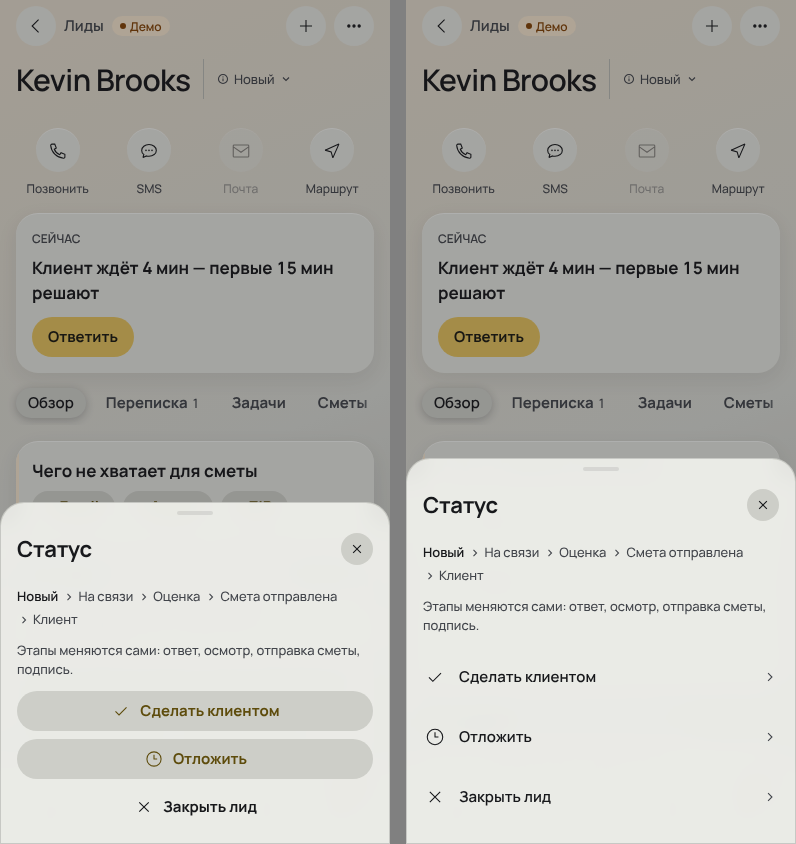
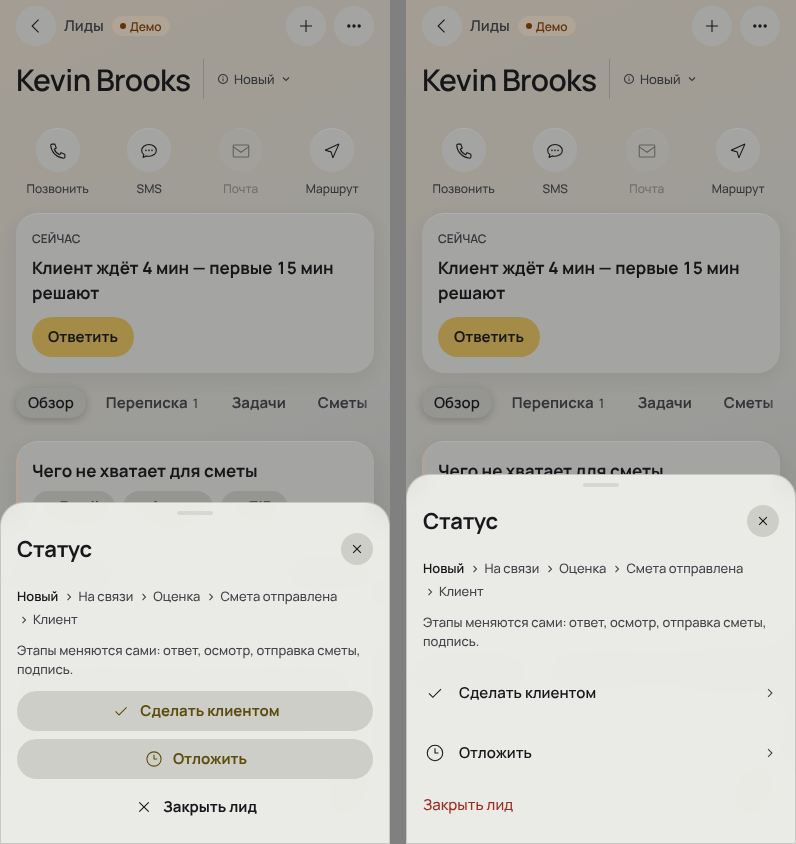
#3065: design + crm review — PO «Отметить получение» main when sent and unchanged, «Закрыть лид» red and last, «⊕» rows for what's missing, «Связано» under the sum, reminder rows show when, no «›» on direct actions
- purchase order: sent, no changes → one main «Отметить получение», «Отправить снова» in «⋯»; changes → «Отправить (версия N)» + «Сохранить», «Получено» in «⋯»
- lead «Статус»: «Закрыть лид» — ActionRow tone bad, last
- «Чего не хватает»: ActionRow «⊕ Email / Адрес / ZIP» (iOS Contacts add rows)
- «Что дальше?»: each reminder row shows its day and 9:00
- «Сообщить клиенту»: SMS / Письмо without «›» (they leave the app, as the iOS share sheet)
- receipt: «Связано» after the sum card
- checklist: no list icon on check items (camera only on photo items), subtitle on one line; hint «Нажмите пункт, чтобы изменить» (RU/EN/ES)
- photo sheet: «Повторить» first, then the row «Следующее ›», then «Удалить»

Claude-Session: https://claude.ai/code/session_015CqH67r2udAd6JM1sFa6VX

diff --git a/apps/mobile/src/features/lead/LeadSheets.tsx b/apps/mobile/src/features/lead/LeadSheets.tsx
@@ -12,6 +12,7 @@ import { useStore } from "@/data/store";
 import { LEAD_FUNNEL, LEAD_INTERESTS, type CallOutcome, type Lead, type LeadInterest } from "@/data/types";
 import { useI18n, type DictKey } from "@/i18n";
 import { Labeled } from "@/features/fields";
+import { ActionRow } from "@/ui/multiValueField";
 import { isClosedLead, isOpenLead, isSnoozed, leadStatusView, missingForEstimate, type MissingItem } from "@/features/leads";
 import { leadSettingsOf } from "@/features/leadSettings";
 import { bookStart, dayAtHour, snoozeUntil, SNOOZE_MONTHS, BOOK_DAYS } from "@/features/lead/bookRules";
@@ -65,7 +66,7 @@ export function NextStepSheet({
   l, visible, onClose, onBook, onEstimate, onCloseLead, office,
 }: { l: Lead; visible: boolean; onClose: () => void; onBook: () => void; onEstimate: () => void; onCloseLead: () => void; office: boolean }) {
   const store = useStore();
-  const { t } = useI18n();
+  const { t, day, time } = useI18n();
   const toast = useToast();
   const q = useQ();
   const remindIn = (days: number) => {
@@ -87,7 +88,7 @@ export function NextStepSheet({
         <View testID="lead-next-remind">
           {[1, 3, 7].map((n) => (
             <View key={n} testID={`lead-next-remind-${n}`}>
-              <ListRow title={t("lead.next.inDays", { n })} left={<Icon name="clock" />} chevron={false} onPress={() => remindIn(n)} />
+              <ListRow title={t("lead.next.inDays", { n })} left={<Icon name="clock" />} right={<T v="caption" tone="mut">{`${day(dayAtHour(n, 9))} · ${time(dayAtHour(n, 9))}`}</T>} chevron={false} onPress={() => remindIn(n)} />
             </View>
           ))}
         </View>
@@ -175,7 +176,8 @@ export function StatusSheet({
           ) : (
             <ListRow title={t("lead.snooze.title")} left={<Icon name="clock" />} onPress={() => { onClose(); onSnooze(); }} />
           )}
-          <ListRow title={t("lead.closeTitle")} left={<Icon name="close" />} onPress={() => { onClose(); onCloseLead(); }} />
+          {/* the dangerous one — last, a red word (DS §7.5), as iOS Contacts' red row */}
+          <ActionRow testID="lead-status-close" label={t("lead.closeTitle")} tone="bad" onPress={() => { onClose(); onCloseLead(); }} />
         </View>
       ) : isClosedLead(l) ? (
         <Button label={t("lead.reopen")} icon="refresh" full onPress={() => { toast.show(q(t("lead.reopened", { name: l.name })), store.reopenLead(l.id)); onClose(); }} />
@@ -237,11 +239,11 @@ export function MissingBlock({ l, onAdd }: { l: Lead; onAdd: (what: "contact" | 
   return (
     <Card status="warn">
       <T v="heading">{t("lead.missing.title")}</T>
-      {/* DS §7.5: each missing item is a row «＋ …» that opens its sheet, not a row of buttons */}
+      {/* DS §7.5, §9 А14а: each missing item is an action row «⊕ …» (iOS Contacts «add phone») that opens its sheet, not a row of buttons */}
       <View testID="lead-missing">
         {missing.map((m) => (
           <View key={m} testID={`lead-missing-${m}`}>
-            <ListRow title={t(MISSING_KEYS[m])} left={<Icon name="plus" />} onPress={() => onAdd(sheetOf(m))} />
+            <ActionRow label={t(MISSING_KEYS[m])} icon="plusCircle" onPress={() => onAdd(sheetOf(m))} />
           </View>
         ))}
       </View>

diff --git a/apps/mobile/src/app/purchase-order/[id].tsx b/apps/mobile/src/app/purchase-order/[id].tsx
@@ -125,11 +125,14 @@ export default function PurchaseOrderScreen() {
   };
   const canRecv = canReceive(role) && ["sent", "partially_received", "received"].includes(found.status);
   const startReceive = () => setReceiving(Object.fromEntries(found.lines.map((l) => [l.id, l.receivedQty === "0" ? "" : l.receivedQty])));
-  // DS §7.5 (#3065): at most one main + one second button under the order; the rest — «⋯» in the header. Editing: «Отправить» +
-  // «Сохранить»; «Получено» (a sent order) and «Отменить заказ» — in «⋯». Not editing: «Получено» is the one main.
+  // DS §7.5 (#3065): at most one main + one second button under the order; the rest — «⋯» in the header.
   const canCancel = office && ["draft", "sent", "partially_received"].includes(found.status);
-  const items: MenuItem<"receive" | "cancel">[] = [
-    ...(edit && canRecv ? [{ key: "receive" as const, label: t("po.receive"), icon: "check" as const, testID: "po-receive" }] : []),
+  // design + crm review (#3065): a sent order without changes — the next step «Отметить получение» is the one main; «Отправить снова»
+  // (the same version again) goes to «⋯». With changes — «Отправить (версия N)» + «Сохранить», «Получено» in «⋯».
+  const receiveMain = canRecv && !dirty;
+  const items: MenuItem<"receive" | "send" | "cancel">[] = [
+    ...(edit && canRecv && !receiveMain ? [{ key: "receive" as const, label: t("po.receive"), icon: "check" as const, testID: "po-receive" }] : []),
+    ...(edit && receiveMain && o.supplierId && o.lines.length && !dateBad ? [{ key: "send" as const, label: t("po.sendAgain", { n: found.revision + 1 }), icon: "send" as const, testID: "po-send-again" }] : []),
     ...(canCancel ? [{ key: "cancel" as const, label: t("po.cancel"), icon: "close" as const, destructive: true, ownAsk: true, testID: "po-cancel" }] : []),
   ];
   const more = items.length ? (
@@ -218,7 +221,7 @@ export default function PurchaseOrderScreen() {
         {total !== undefined ? <T v="heading" tabular>{t("po.total", { amount: money(total) })}</T> : null}
       </Card>
 
-      {edit ? (
+      {edit && !receiveMain ? (
         <ButtonPair
           ids={{ main: "po-send", second: "po-save" }}
           main={{ label: found.status === "sent" ? t("po.sendAgain", { n: found.revision + 1 }) : t("po.send"), icon: "send", disabled: !o.supplierId || !o.lines.length || dateBad, onPress: send }}
@@ -239,6 +242,7 @@ export default function PurchaseOrderScreen() {
         onSelect={(k) => {
           setMoreAt(null);
           if (k === "receive") startReceive();
+          else if (k === "send") send();
           else setAskCancel(true);
         }}
         onClose={() => setMoreAt(null)}

diff --git a/apps/mobile/src/features/VisitForm.tsx b/apps/mobile/src/features/VisitForm.tsx
@@ -331,8 +331,8 @@ export function NotifySheet({ visitId, onClose }: { visitId: ID | null; onClose:
       <T v="body">{text}</T>
       {/* DS §7.5 (#3065): the channel is a row of one choice (as the iOS share sheet), not a column of buttons; «Не сейчас» — the one quiet button */}
       <View testID="vf-notify-channels">
-        {sms ? <ListRow title={t("vf.notify.sms")} left={<Icon name="sms" />} onPress={() => { Linking.openURL(sms).catch(() => {}); done(); }} /> : null}
-        {mail ? <ListRow title={t("vf.notify.email")} left={<Icon name="mail" />} onPress={() => { Linking.openURL(mail).catch(() => {}); done(); }} /> : null}
+        {sms ? <ListRow title={t("vf.notify.sms")} left={<Icon name="sms" />} chevron={false} onPress={() => { Linking.openURL(sms).catch(() => {}); done(); }} /> : null}
+        {mail ? <ListRow title={t("vf.notify.email")} left={<Icon name="mail" />} chevron={false} onPress={() => { Linking.openURL(mail).catch(() => {}); done(); }} /> : null}
         <ListRow title={t("vf.notify.copy")} left={<Icon name="copy" />} chevron={false} onPress={() => { Clipboard.setStringAsync(text).catch(() => {}); toast.show(t("vf.notify.copied")); done(); }} />
       </View>
       <Button label={t("vf.notify.later")} variant="ghost" full onPress={onClose} />
@@ -370,8 +370,8 @@ export function CancelNotifySheet({ visitId, onClose }: { visitId: ID | null; on
       {!sms && !mail ? <T v="caption" tone="mut">{t("visitP2.notify.noContact")}</T> : null}
       {/* DS §7.5 (#3065): the channel — rows of one choice, not a column of buttons */}
       <View testID="vc-notify-channels">
-        {sms ? <ListRow title={t("vf.notify.sms")} left={<Icon name="sms" />} onPress={() => open(sms, "sms")} /> : null}
-        {mail ? <ListRow title={t("vf.notify.email")} left={<Icon name="mail" />} onPress={() => open(mail, "email")} /> : null}
+        {sms ? <ListRow title={t("vf.notify.sms")} left={<Icon name="sms" />} chevron={false} onPress={() => open(sms, "sms")} /> : null}
+        {mail ? <ListRow title={t("vf.notify.email")} left={<Icon name="mail" />} chevron={false} onPress={() => open(mail, "email")} /> : null}
         <ListRow title={t("vf.notify.copy")} left={<Icon name="copy" />} chevron={false} onPress={() => { Clipboard.setStringAsync(n.text).catch(() => {}); toast.show(t("vf.notify.copied")); onClose(); }} />
       </View>
       <Button label={t("vf.notify.later")} variant="ghost" full onPress={onClose} />

diff --git a/apps/mobile/src/features/PhotoStrip.tsx b/apps/mobile/src/features/PhotoStrip.tsx
@@ -135,12 +135,6 @@ export function PhotoStrip({ photos, onAdd, onAddPreparing, onRemove, onRetry, o
             {!open.uri && openFailed.failed !== "gone" ? ` ${t("photoUp.otherPhone")}` : ""}
           </StatusNote>
         ) : null}
-        {/* DS §7.5 (#3065): going to the next failed photo is a row «›», not a third button; the sheet keeps one main + one second */}
-        {nextFailed ? (
-          <View testID="photo-upload-next">
-            <ListRow title={t("photoUp.next", { i: failedAt + 1, n: failed })} left={<Icon name="image" />} onPress={() => setOpen(nextFailed)} />
-          </View>
-        ) : null}
         {/* the sheet's one main step (one filled accent, #2350): «Повторить», or «Подготовить снова» for «не открывается» — never both */}
         {open && ((onRetry && canRetry({ ...open, upload: openFailed })) || (openFailed?.failed === "unreadable" && open.uri)) ? (
           <Button
@@ -154,6 +148,12 @@ export function PhotoStrip({ photos, onAdd, onAddPreparing, onRemove, onRetry, o
               setOpen(null);
             }}
           />
+        ) : null}
+        {/* DS §7.5 (#3065): going to the next failed photo is a row «›» under the main step, not a third button; the sheet keeps one main + one second */}
+        {nextFailed ? (
+          <View testID="photo-upload-next">
+            <ListRow title={t("photoUp.next", { i: failedAt + 1, n: failed })} left={<Icon name="image" />} onPress={() => setOpen(nextFailed)} />
+          </View>
         ) : null}
         {onRemove && open ? (
           <Button

diff --git a/apps/mobile/src/app/receipt/[id].tsx b/apps/mobile/src/app/receipt/[id].tsx
@@ -114,9 +114,8 @@ export default function ReceiptScreen() {
       right={more}
       footer={barMain ? <ActionBar testID="rcpt-actionbar" main={barMain} second={secondBtn(true) ?? undefined} /> : undefined}
     >
-      {/* LAYOUT-RULES §3 «Объект», compact (#2350): the invoice, the job and the client — chips in one row (DS §12.3 п.6; the client
+      {/* LAYOUT-RULES §3 «Объект», compact (#2350): the invoice, the job and the client — «Связано» rows under the sum (#3065; the client
           is not repeated under the title, the invoice not repeated in the card); the sum large with its status, how and when in one line */}
-      <RelatedBlock of={{ type: "receipt", id: p.id }} />
       <Card status="ok">
         <RowView style={{ justifyContent: "space-between", alignItems: "center" }}>
           <T v="display" tabular>
@@ -168,6 +167,8 @@ export default function ReceiptScreen() {
           </T>
         ) : null}
       </Card>
+      {/* #3065 (design + crm review): the sum and its status first, then «Связано» — as Wallet and Jobber put a payment */}
+      <RelatedBlock of={{ type: "receipt", id: p.id }} />
       {/* from 820 the same buttons right after the receipt (the same place on every width, #1474) */}
       {wide && (mainBtn(false) || secondBtn(false)) ? (
         <RowView style={{ flexWrap: "wrap" }}>

diff --git a/apps/mobile/src/features/VisitChecklist.tsx b/apps/mobile/src/features/VisitChecklist.tsx
@@ -248,8 +248,7 @@ export function ChecklistEditor({ v, title }: { v: Visit; title?: string }) {
               testID={`chk-edit-${i}-open`}
               title={item.label}
               subtitle={[itemRequired(item) ? t("chk3.requiredShort") : t("chk3.optional"), item.templateName ? t("chk3.from", { name: item.templateName }) : null].filter(Boolean).join(" · ")}
-              lead={{ icon: itemKind(item) === "photo" ? "camera" : "checklist" }}
-              wrap
+              lead={itemKind(item) === "photo" ? { icon: "camera" } : undefined}
               onPress={() => setEditing(item)}
               actions={[
                 ...(i > 0 ? [{ icon: "chevronUp" as const, a11y: `${t("chk3.up")} · ${item.label}`, testID: `chk-edit-${i}-up`, onPress: () => say(t("chk3.moved"), store.moveVisitItem(v.id, item.id, -1)) }] : []),

diff --git a/apps/mobile/src/i18n/ru.ts b/apps/mobile/src/i18n/ru.ts
@@ -4472,7 +4472,7 @@ export const ru = {
   "chk2b.reviewed": "Просмотрено",
   "chk2b.reviewedToast": "Отмечено: просмотрено",
   // step 14 CH3 (чек-листы): the office edits a visit's checklist
-  "chk3.hint": "Правка — до выезда мастера. Снять «Обязательный» может только директор.",
+  "chk3.hint": "Правка — до выезда мастера. Нажмите пункт, чтобы изменить. Снять «Обязательный» может только директор.",
   "chk3.empty": "Пунктов пока нет",
   "chk3.edit": "Изменить",
   "chk3.editTitle": "Пункт чек-листа",

diff --git a/apps/mobile/src/i18n/es.ts b/apps/mobile/src/i18n/es.ts
@@ -4472,7 +4472,7 @@ export const es: Dict = {
   "chk2b.reviewed": "Revisado",
   "chk2b.reviewedToast": "Marcado como revisado",
   // step 14 CH3 (чек-листы): the office edits a visit's checklist
-  "chk3.hint": "Se edita antes de la visita del técnico. Solo el director quita «Obligatorio».",
+  "chk3.hint": "Se edita antes de la visita del técnico. Toque un punto para editarlo. Solo el director quita «Obligatorio».",
   "chk3.empty": "Aún no hay puntos",
   "chk3.edit": "Editar",
   "chk3.editTitle": "Punto de la lista",

diff --git a/apps/mobile/src/i18n/en.ts b/apps/mobile/src/i18n/en.ts
@@ -4472,7 +4472,7 @@ export const en: Dict = {
   "chk2b.reviewed": "Reviewed",
   "chk2b.reviewedToast": "Marked as reviewed",
   // step 14 CH3 (чек-листы): the office edits a visit's checklist
-  "chk3.hint": "Edit before the tech's visit. Only the director can turn «Required» off.",
+  "chk3.hint": "Edit before the tech's visit. Tap an item to edit it. Only the director can turn «Required» off.",
   "chk3.empty": "No items yet",
   "chk3.edit": "Edit",
   "chk3.editTitle": "Checklist item",
